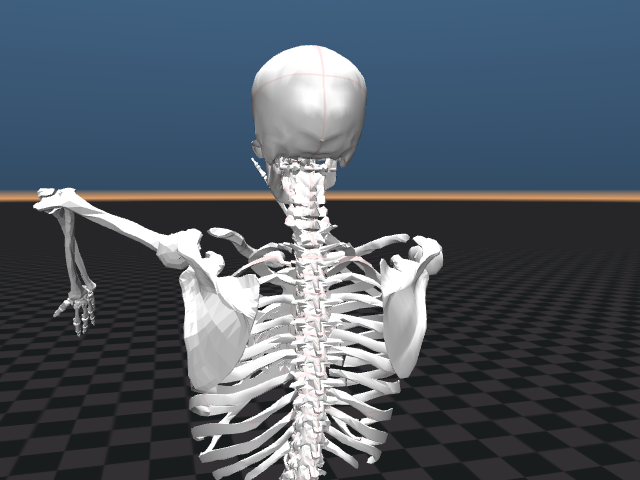
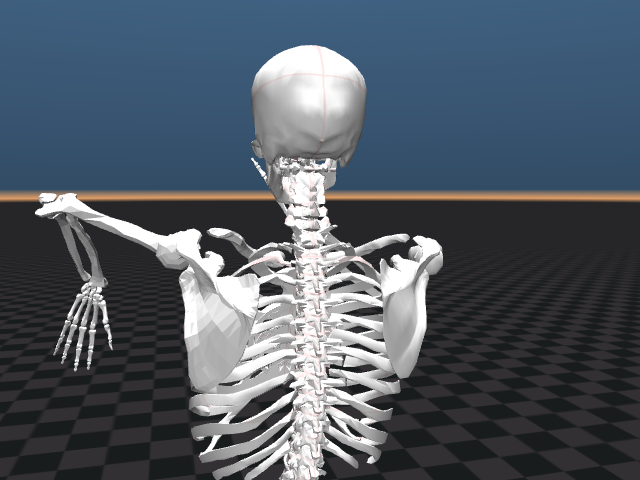
Keep the mirrored left palm facing inward during the scuba sweep

diff --git a/myo_scuba.py b/myo_scuba.py
@@ -54,6 +54,14 @@ class MyoScuba:
         self.mass = np.zeros((self.model.nv, self.model.nv))
         self.moments = np.zeros((self.model.nu, self.model.nv))
         self.activation = np.zeros(self.model.nu)
+        # The mirrored left arm flips its local palmar side. Read that side
+        # from anatomical flexor/extensor attachments rather than assuming -Z.
+        self.palm_local_sign = {}
+        for side in ('r', 'l'):
+            flexor_z = np.mean([self.model.site(name+side).pos[2]
+                               for name in ('FDS3-P4_', 'FDP3-P4_')])
+            extensor_z = self.model.site('EDC3-P4_'+side).pos[2]
+            self.palm_local_sign[side] = float(np.sign(flexor_z-extensor_z))
         self.base = self.model.qpos0.copy()
         self.prepare_motion()
         self.reset()
@@ -76,10 +84,17 @@ class MyoScuba:
     def hand_position(self, data, side):
         return data.body('thirdmc_'+side).xpos.copy()
 
+    def palm_normal(self, data, side):
+        """World palmar normal, accounting for the mirrored left anatomy."""
+        return (self.palm_local_sign[side]
+                * data.body('thirdmc_'+side).xmat.reshape(3, 3)[:, 2])
+
     def right_palm_normal(self, data):
-        # The upstream flexor (FDS/FDP) sites sit on local -Z of thirdmc_r;
-        # extensor (EDC) sites sit on +Z. Thus -Z points out of the palm.
-        return -data.body('thirdmc_r').xmat.reshape(3, 3)[:, 2]
+        return self.palm_normal(data, 'r')
+
+    def left_palm_alignment(self, data):
+        # The chest is behind the sweeping hand at +Y in model coordinates.
+        return float(self.palm_normal(data, 'l') @ np.array([0, 1, 0]))
 
     def right_palm_alignment(self, data):
         nose = data.body('head').xpos + np.array([0, -.09, -.035])
@@ -90,8 +105,7 @@ class MyoScuba:
     def solve_arm(self, side, point, initial):
         """IK supplies targets only; the physical data never follows IK directly."""
         names = ['elv_angle_', 'shoulder_elv_', 'shoulder_rot_', 'elbow_flexion_', 'pro_sup_']
-        if side == 'r':
-            names += ['deviation_', 'flexion_']
+        names += ['deviation_', 'flexion_']
         ids = [self.qadr[n+side] for n in names]
         ranges = np.array([self.model.joint(n+side).range for n in names])
         arm_geoms = [self.model.geom(n+side).id for n in
@@ -118,6 +132,10 @@ class MyoScuba:
                 toward_nose = nose-self.hand_position(self.kin, 'r')
                 toward_nose /= max(np.linalg.norm(toward_nose), 1e-8)
                 palm_preference = self.right_palm_normal(self.kin)-toward_nose
+            else:
+                # The sweeping palm stays toward the chest instead of spinning
+                # with the shoulder. Wrist/forearm motion compensates the sweep.
+                palm_preference = self.palm_normal(self.kin, 'l')-np.array([0, 1, 0])
             return np.r_[8*(self.hand_position(self.kin, side)-point),
                          20*np.asarray(clearance), elbow_preference, palm_preference, .025*(x-initial)]
         answer = least_squares(residual, initial, bounds=(ranges[:,0]+1e-5, ranges[:,1]-1e-5),
@@ -136,7 +154,7 @@ class MyoScuba:
         self.left_points = np.array([[x, head[1]-.46, head[2]-.28]
                                     for x in np.linspace(-.10, .38, 33)])
         poses = []
-        guess = np.array([1.5,1.2,0,.4,0])
+        guess = np.array([1.5,1.2,0,.4,0,0,0])
         for point in self.left_points:
             self.left_ids, guess = self.solve_arm('l', point, guess)
             poses.append(guess.copy())
@@ -217,7 +235,7 @@ def main():
     if not np.isfinite(args.seconds) or args.seconds <= 0:
         parser.error('--seconds must be positive and finite')
     sim = MyoScuba()
-    errors, positions, controls, hand_positions, palm_alignment = [], [], [], [], []
+    errors, positions, controls, hand_positions, palm_alignment, left_palm_alignment = [], [], [], [], [], []
 
     def run(viewer=None):
         for _ in range(int(np.ceil(args.seconds/sim.dt))):
@@ -228,6 +246,7 @@ def main():
             hand_positions.append(np.r_[sim.hand_position(sim.data, 'r'),
                                         sim.hand_position(sim.data, 'l')])
             palm_alignment.append(sim.right_palm_alignment(sim.data))
+            left_palm_alignment.append(sim.left_palm_alignment(sim.data))
             if viewer is not None:
                 if not viewer.is_running():
                     break
@@ -264,6 +283,8 @@ def main():
         result['left_hand_vertical_range_m'] = float(movement[5])
         result['right_palm_min_alignment_cosine'] = float(
             min(palm_alignment[round(1/sim.dt):]))
+        result['left_palm_min_alignment_cosine'] = float(
+            min(left_palm_alignment[round(1/sim.dt):]))
     (output/'myo_scuba_metrics.json').write_text(json.dumps(result, indent=2)+'\n')
     print(json.dumps(result, indent=2))
 

diff --git a/tests/test_myo_scuba.py b/tests/test_myo_scuba.py
@@ -29,10 +29,20 @@ class MyoScubaTests(unittest.TestCase):
                     self.assertGreaterEqual(q[j], sim.model.jnt_range[j, 0]-1e-7)
                     self.assertLessEqual(q[j], sim.model.jnt_range[j, 1]+1e-7)
 
+    def test_mirrored_left_palm_faces_inward_in_reference_motion(self):
+        sim = self.sim
+        # Mirroring flips the flexor/extensor sides: a shared -Z normal would
+        # incorrectly identify the back of the left hand as its palm.
+        self.assertEqual(sim.palm_local_sign, {'r': -1.0, 'l': 1.0})
+        for t in np.linspace(0, 2.5, 100):
+            sim.kin.qpos[:] = sim.target(t)
+            mujoco.mj_forward(sim.model, sim.kin)
+            self.assertGreater(sim.left_palm_alignment(sim.kin), 0.95)
+
     def test_physics_drives_the_scuba_with_muscle_excitation(self):
         sim = self.sim
         sim.reset()
-        positions, knees, errors, contacts, palm_alignment = [], [], [], [], []
+        positions, knees, errors, contacts, palm_alignment, left_palm_alignment = [], [], [], [], [], []
         for step in range(1200):
             errors.append(sim.step())
             self.assertTrue(np.isfinite(sim.data.qpos).all())
@@ -44,6 +54,7 @@ class MyoScubaTests(unittest.TestCase):
                                        sim.hand_position(sim.data, 'l')])
                 knees.append(sim.data.qpos[sim.qadr['knee_angle_r']])
                 palm_alignment.append(sim.right_palm_alignment(sim.data))
+                left_palm_alignment.append(sim.left_palm_alignment(sim.data))
             for c in sim.data.contact:
                 names = sim.model.geom(c.geom1).name+sim.model.geom(c.geom2).name
                 if 'thorax_coll' in names:
@@ -54,6 +65,7 @@ class MyoScubaTests(unittest.TestCase):
         self.assertGreater(movement[3], 0.35)  # Side-to-side hand sweep.
         self.assertLess(movement[5], 0.06)
         self.assertLess(np.linalg.norm(movement[:3]), 0.10)  # Raised hand stays near face.
+        self.assertGreater(min(left_palm_alignment), 0.85)  # Sweeping palm stays inward.
         self.assertGreater(min(palm_alignment), 0.85)  # Palm faces the nose throughout.
         self.assertGreater(np.ptp(knees), 0.25)
         self.assertGreater(min(contacts, default=0), -0.005)

diff --git a/render_myo_scuba.py b/render_myo_scuba.py
@@ -11,6 +11,7 @@ def main():
     camera.lookat[:] = [0, .1, 1]
     frames = []
     closeup = None
+    left_closeup = None
     with mujoco.Renderer(sim.model, height=480, width=640) as renderer:
         for step in range(round(3.5/sim.dt)):
             sim.step()
@@ -27,10 +28,16 @@ def main():
                     options.tendongroup[:] = 0
                     renderer.update_scene(sim.data, camera=hand_camera, scene_option=options)
                     closeup = Image.fromarray(renderer.render().copy())
+                    hand_camera.lookat[:] = sim.hand_position(sim.data, 'l')
+                    hand_camera.distance = .6
+                    hand_camera.azimuth = -90
+                    renderer.update_scene(sim.data, camera=hand_camera, scene_option=options)
+                    left_closeup = Image.fromarray(renderer.render().copy())
     output = ROOT/'results'
     output.mkdir(exist_ok=True)
     frames[0].save(output/'myo_scuba_preview.png')
     closeup.save(output/'myo_hand_preview.png')
+    left_closeup.save(output/'myo_left_hand_preview.png')
     frames[0].save(output/'myo_scuba_preview.gif', save_all=True,
                    append_images=frames[1:], duration=40, loop=0)
     print(output/'myo_scuba_preview.gif')

diff --git a/README.md b/README.md
@@ -81,7 +81,9 @@ joint forces or external body forces driving the dance.
 The right hand stays near the face with its palm turned toward the nose.
 Arm inverse kinematics targets both hand position and palm orientation, using
 forearm pronation/supination and the wrist joints. The left hand sweeps horizontally in front
-of the chest, and the knees bend alternately. Fingers follow neutral reference
+of the chest with its palm facing toward the body, and the knees bend alternately.
+The left model is mirrored, so its local palmar normal is +Z rather than the
+right hand's -Z; flexor/extensor attachment sites determine each side. Fingers follow neutral reference
 angles; this does not yet reproduce an exact nose pinch. This version uses a
 computed muscle controller, not the simplified skeleton's PPO checkpoint.
 It remains an approximate supported dance, not a validated, freely balancing
